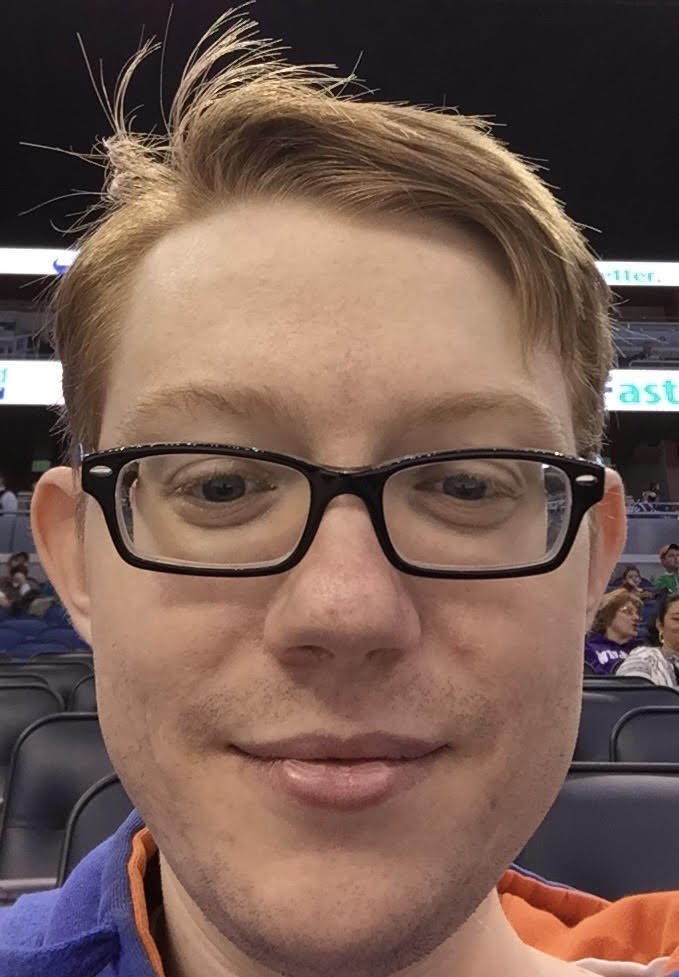
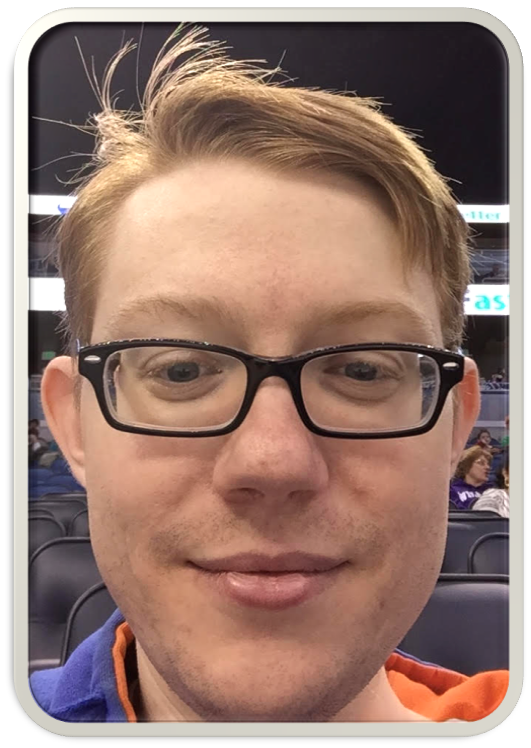
Updated images with borders

diff --git a/lib/screens/home_screen.dart b/lib/screens/home_screen.dart
@@ -42,8 +42,8 @@ class HomeScreen extends StatelessWidget {
                 ],
               ),
               child: Image.asset(
-                  'assets/images/johncage.jpg',
-                  fit: BoxFit.fitHeight
+                  'assets/images/JC.png',
+                  fit: BoxFit.cover
               ),
             ),
             Padding(
@@ -128,7 +128,7 @@ class HomeScreen extends StatelessWidget {
                     ],
                   ),
                   child: Image.asset(
-                      'assets/images/Kyle.jpg',
+                      'assets/images/Kyle.png',
                       fit: BoxFit.fitWidth
                   ),
                 ),
@@ -168,7 +168,7 @@ class HomeScreen extends StatelessWidget {
                     ],
                   ),
                   child: Image.asset(
-                      'assets/images/Demetri.jpg',
+                      'assets/images/Demetri.png',
                       fit: BoxFit.fitWidth
                   ),
                 ),
@@ -207,7 +207,7 @@ class HomeScreen extends StatelessWidget {
                   ),
                   margin: const EdgeInsets.symmetric(vertical: 30),
                   child: Image.asset(
-                      'assets/images/Rayyan.jpg',
+                      'assets/images/Rayyan.png',
                       fit: BoxFit.fitWidth
                   ),
                 ),
@@ -246,7 +246,7 @@ class HomeScreen extends StatelessWidget {
                   ),
                   margin: const EdgeInsets.symmetric(vertical: 30),
                   child: Image.asset(
-                      'assets/images/Himil.jpg',
+                      'assets/images/Himil.png',
                       fit: BoxFit.fitWidth
                   ),
                 ),
@@ -285,7 +285,7 @@ class HomeScreen extends StatelessWidget {
                   ),
                   margin: const EdgeInsets.symmetric(vertical: 30),
                   child: Image.asset(
-                      'assets/images/Stephen.jpg',
+                      'assets/images/Stephen.png',
                       fit: BoxFit.fitWidth
                   ),
                 ),
